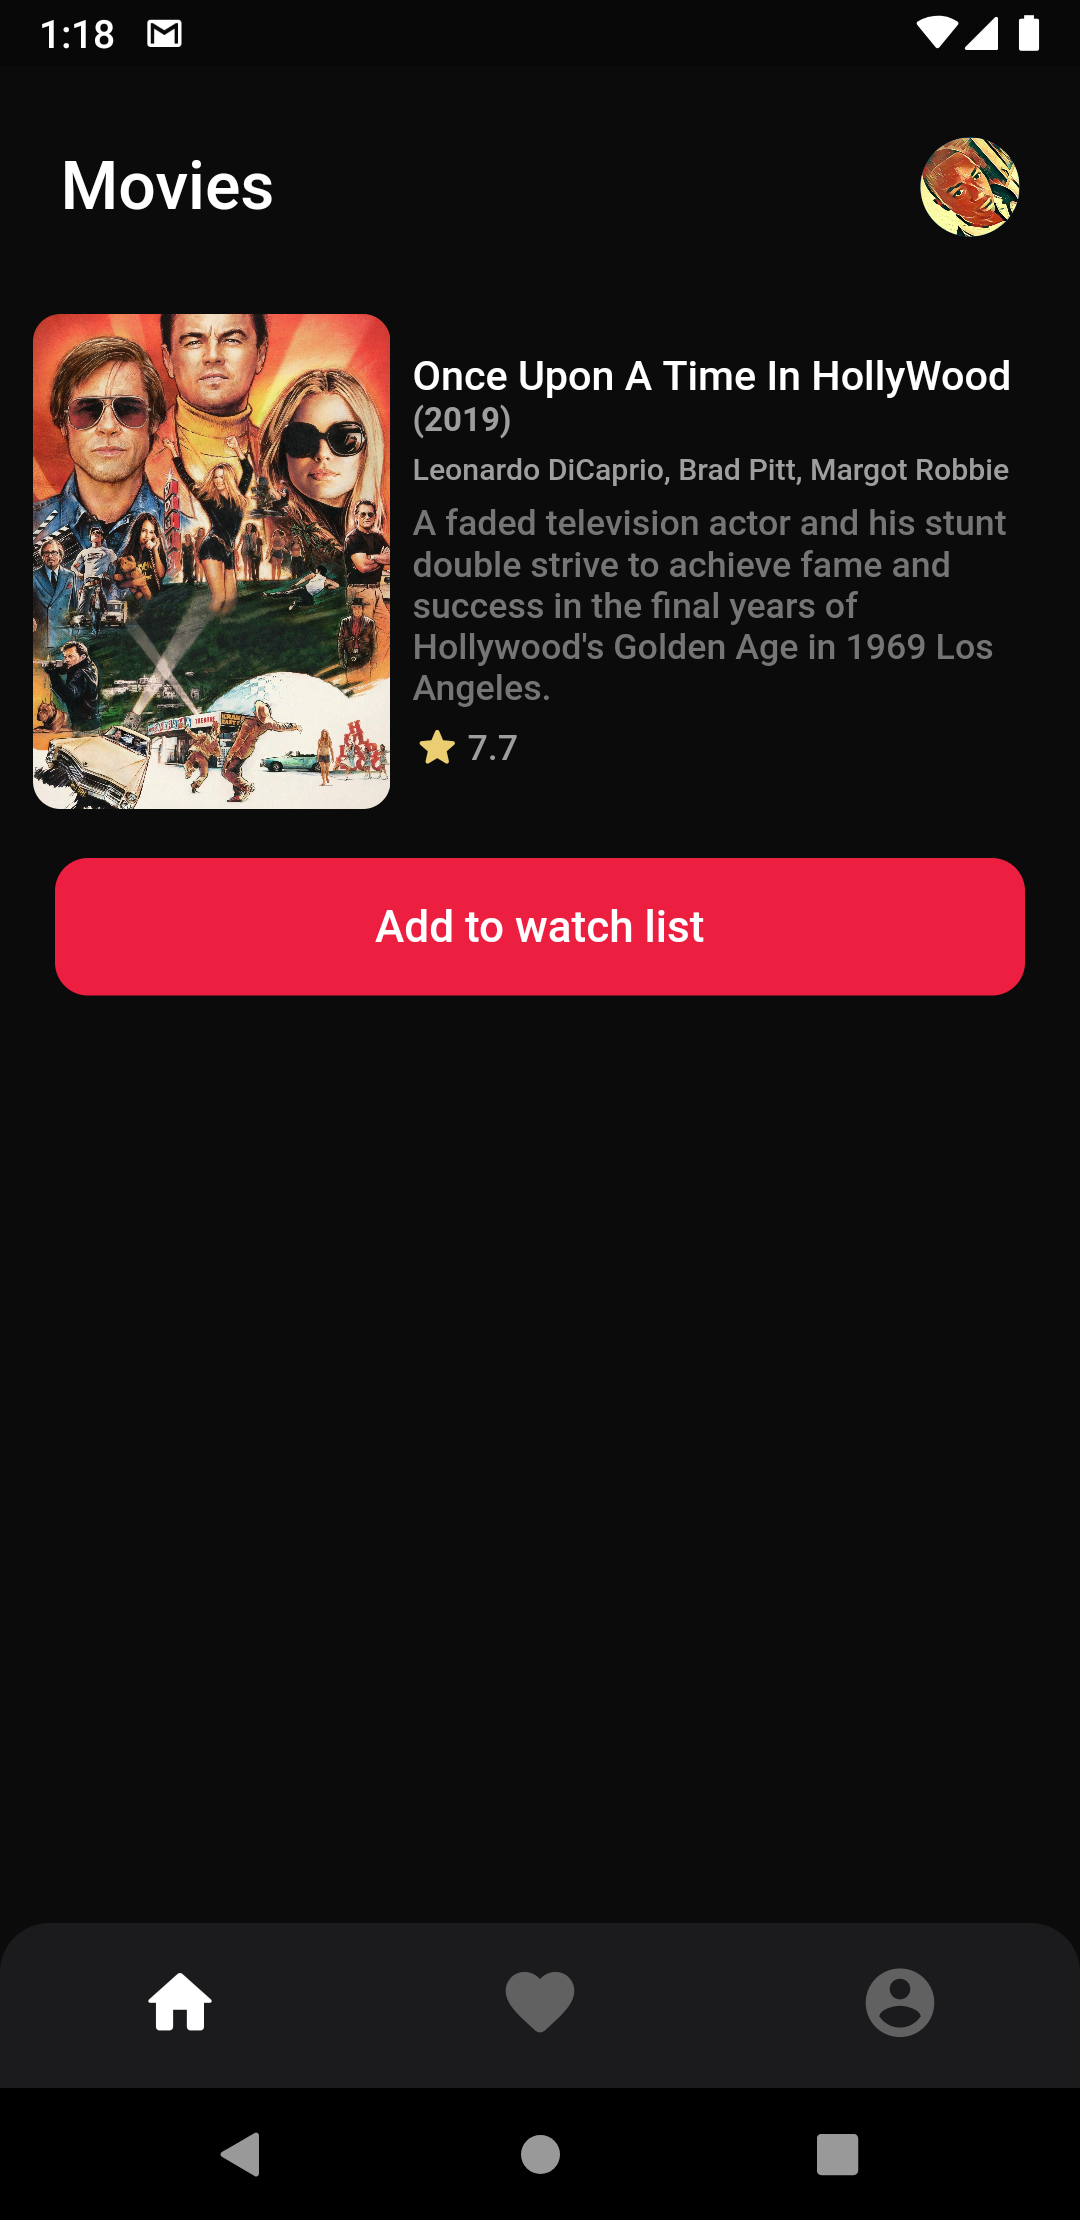
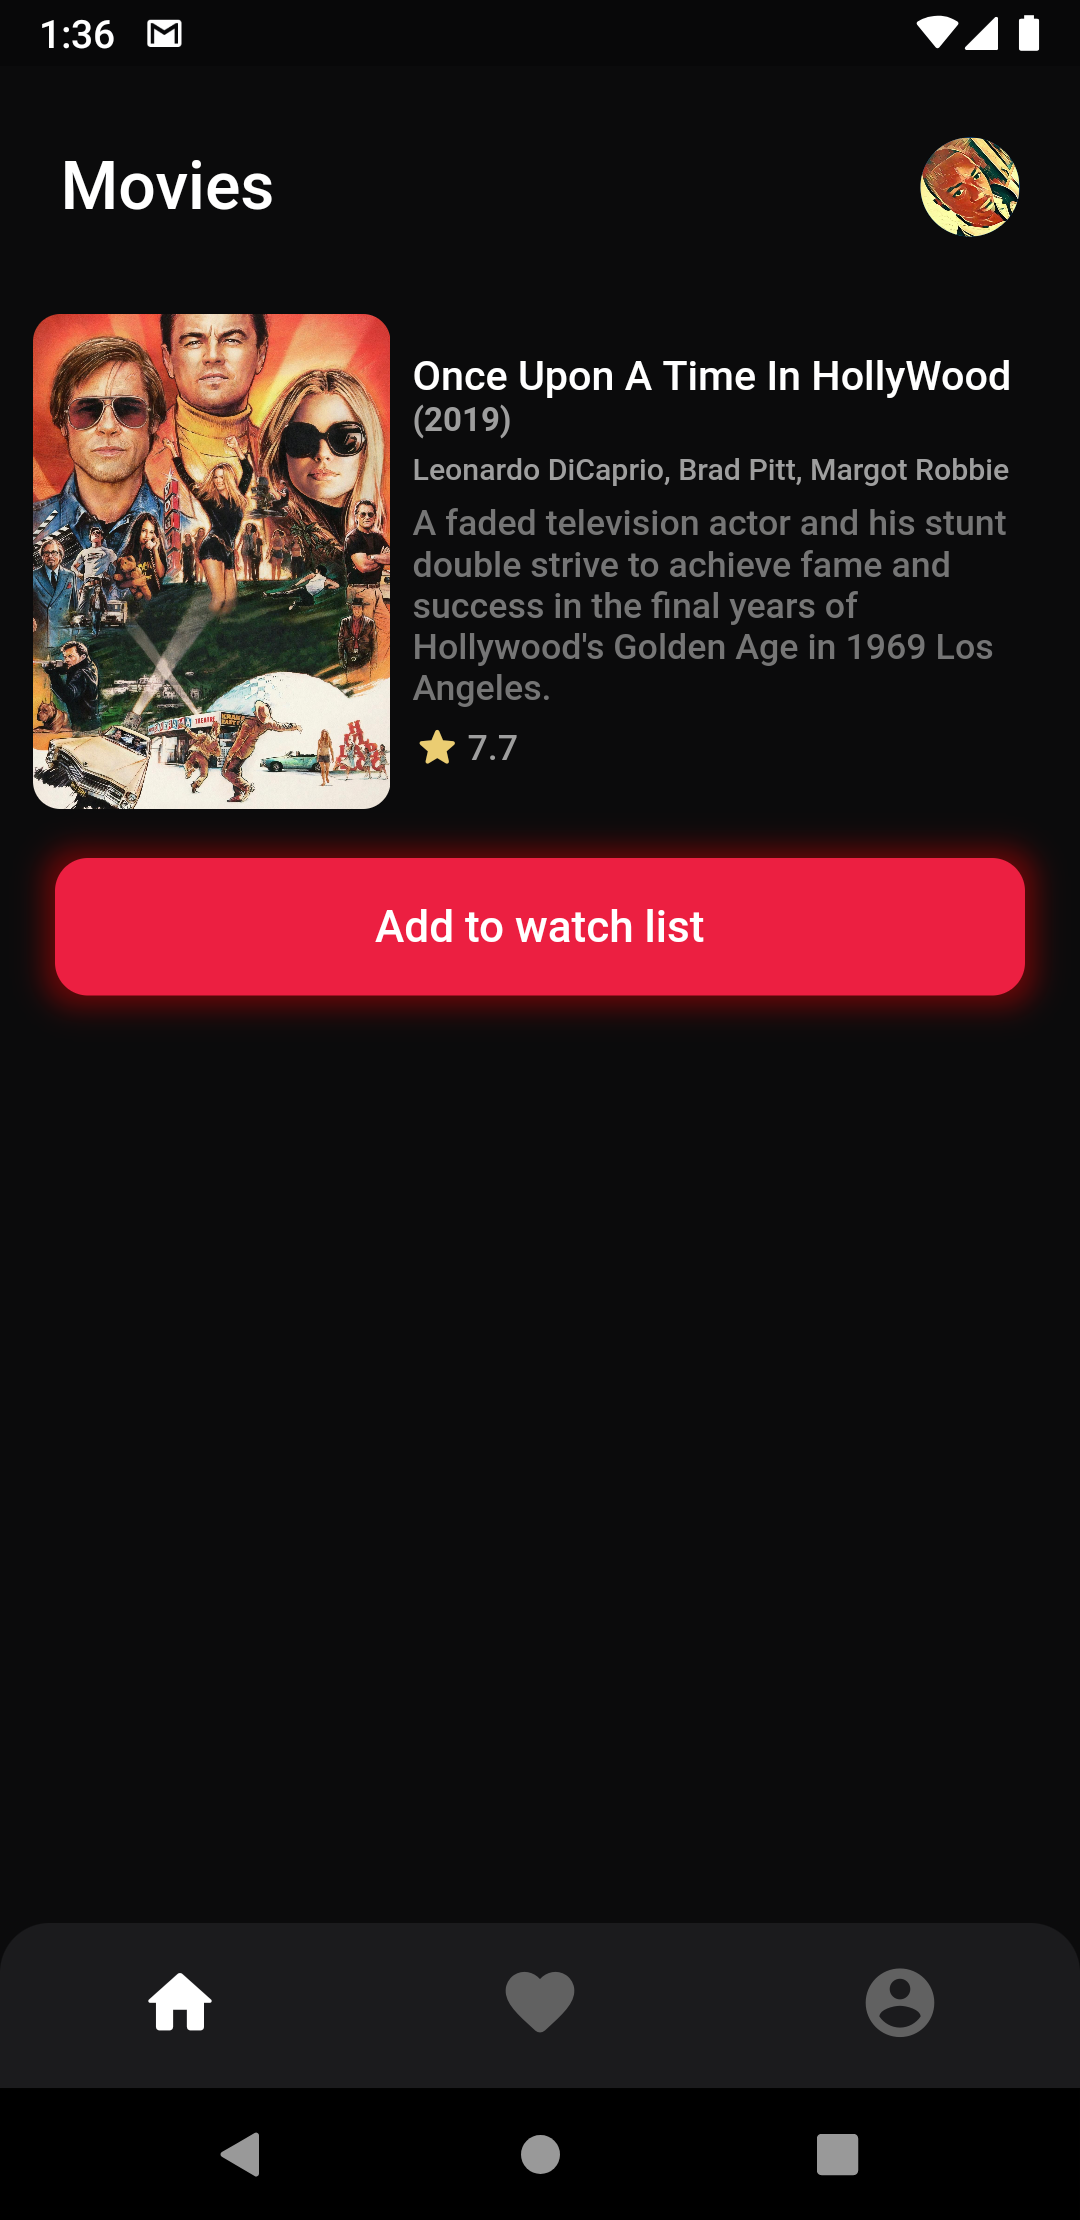
Added Neon Glow Around Movie Details Button

Changed region(s): [[0.0306, 0.373, 0.9778, 0.4662], [0.0611, 0.0, 0.0917, 0.0311]]

diff --git a/lib/screens/movie_details_screen.dart b/lib/screens/movie_details_screen.dart
@@ -80,22 +80,33 @@ class MovieDetailsScreen extends StatelessWidget {
                     SizedBox(
                       height: 18.0,
                     ),
-                    Container(
+                    Padding(
                       padding: EdgeInsets.symmetric(horizontal: 8.0),
-                      width: double.infinity,
-                      height: 50.0,
-                      child: FlatButton(
-                        onPressed: () {},
-                        shape: RoundedRectangleBorder(
-                          borderRadius: BorderRadius.circular(12.0),
-                        ),
-                        color: Color(0xFFEC1F41),
-                        child: Text(
-                          "Add to watch list",
-                          style: TextStyle(
-                            fontSize: 16.0,
-                            color: Colors.white,
-                            fontWeight: FontWeight.w600,
+                      child: Container(
+                        width: double.infinity,
+                        height: 50.0,
+                        decoration: BoxDecoration(
+                            borderRadius: BorderRadius.circular(12.0),
+                            boxShadow: [
+                              BoxShadow(
+                                color: Color(0xFFFF0000).withAlpha(100),
+                                blurRadius: 8.0,
+                                spreadRadius: 4.0,
+                              )
+                            ]),
+                        child: FlatButton(
+                          onPressed: () {},
+                          shape: RoundedRectangleBorder(
+                            borderRadius: BorderRadius.circular(12.0),
+                          ),
+                          color: Color(0xFFEC1F41),
+                          child: Text(
+                            "Add to watch list",
+                            style: TextStyle(
+                              fontSize: 16.0,
+                              color: Colors.white,
+                              fontWeight: FontWeight.w600,
+                            ),
                           ),
                         ),
                       ),

diff --git a/README.md b/README.md
@@ -2,6 +2,6 @@
 
 Learning Flutter's Declarative UI And Flutter Bloc By Building A Simple Movies App
 
-<img src="art/movies.png" width="300" style="margin-right: 20px"/> <img src="art/movie_detail.png" width="300"/>
+<img src="art/movies.png" width="300"/> <img src="art/movie_detail.png" width="300"/>
 
 Inspiration from [this dribbble ui design](https://dribbble.com/shots/11105232-Movie-App-UI/attachments/2704740?mode=media)
